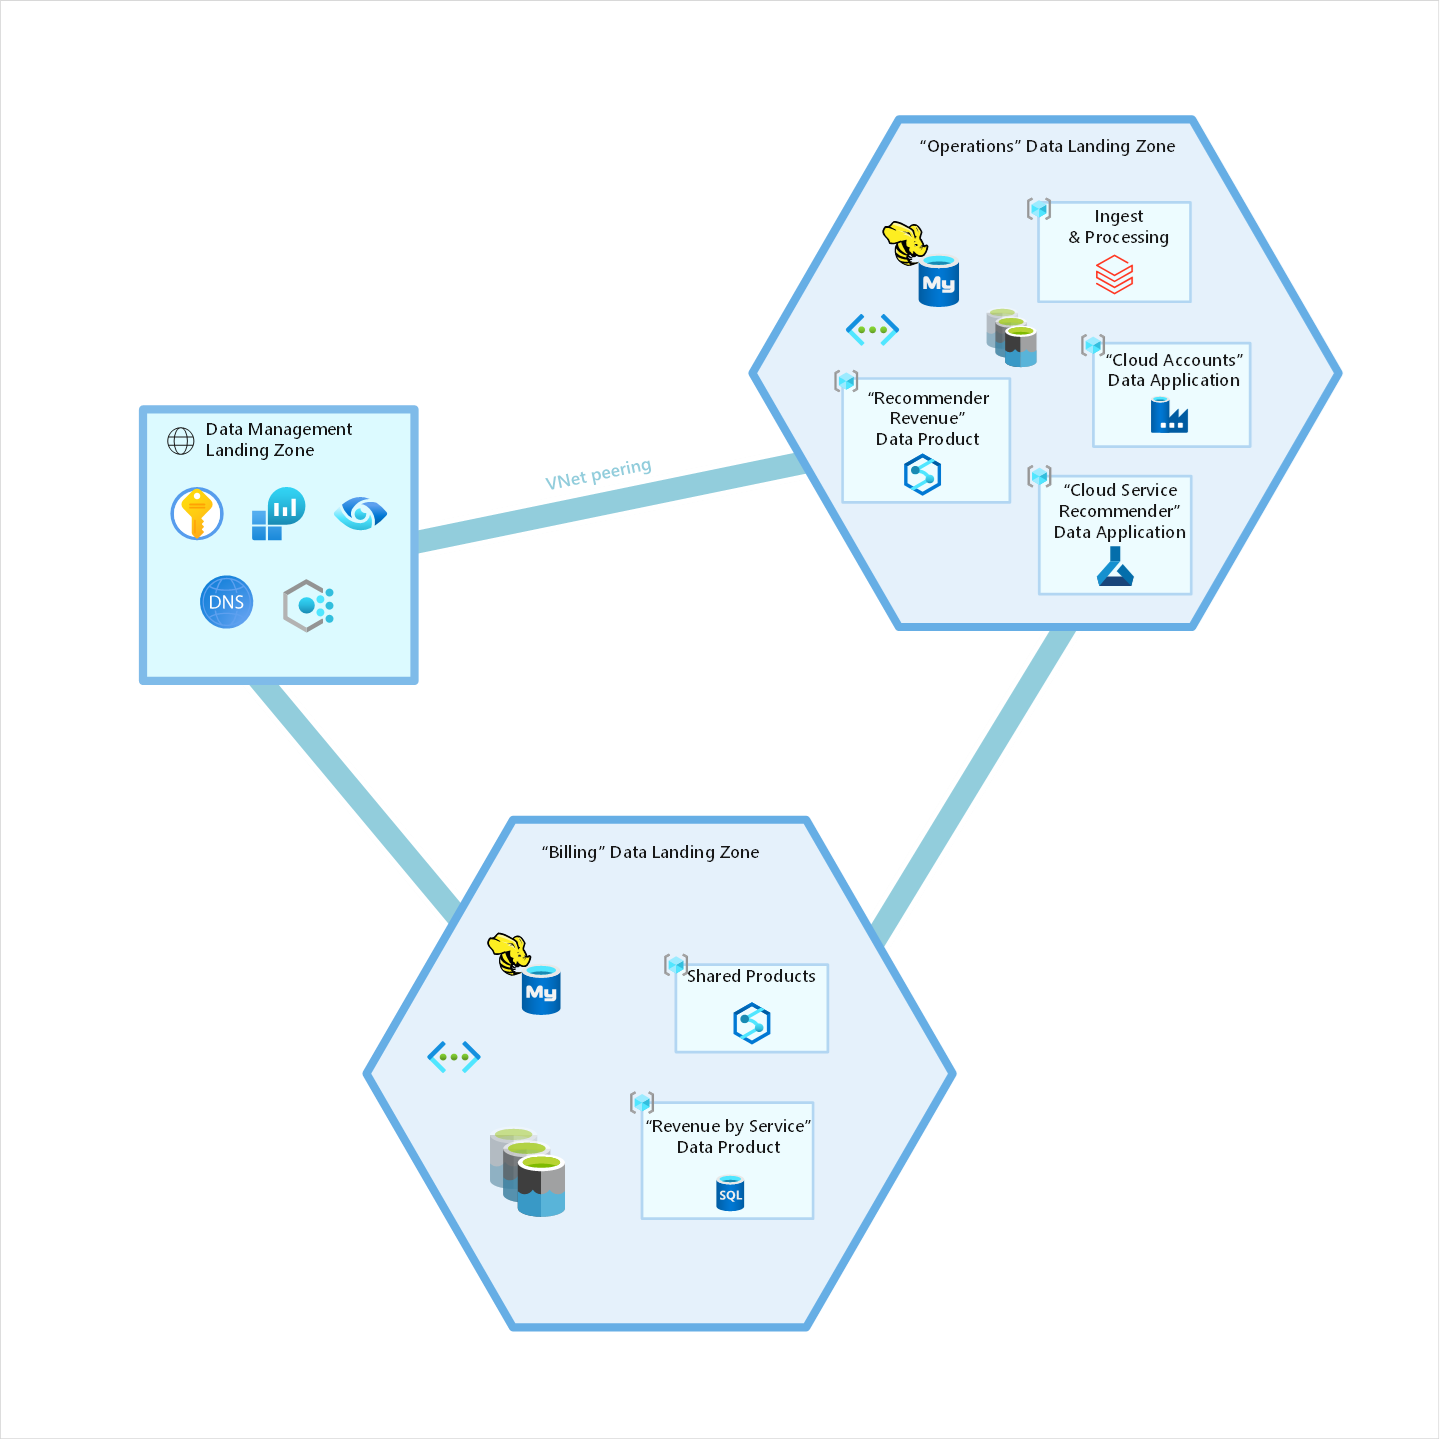
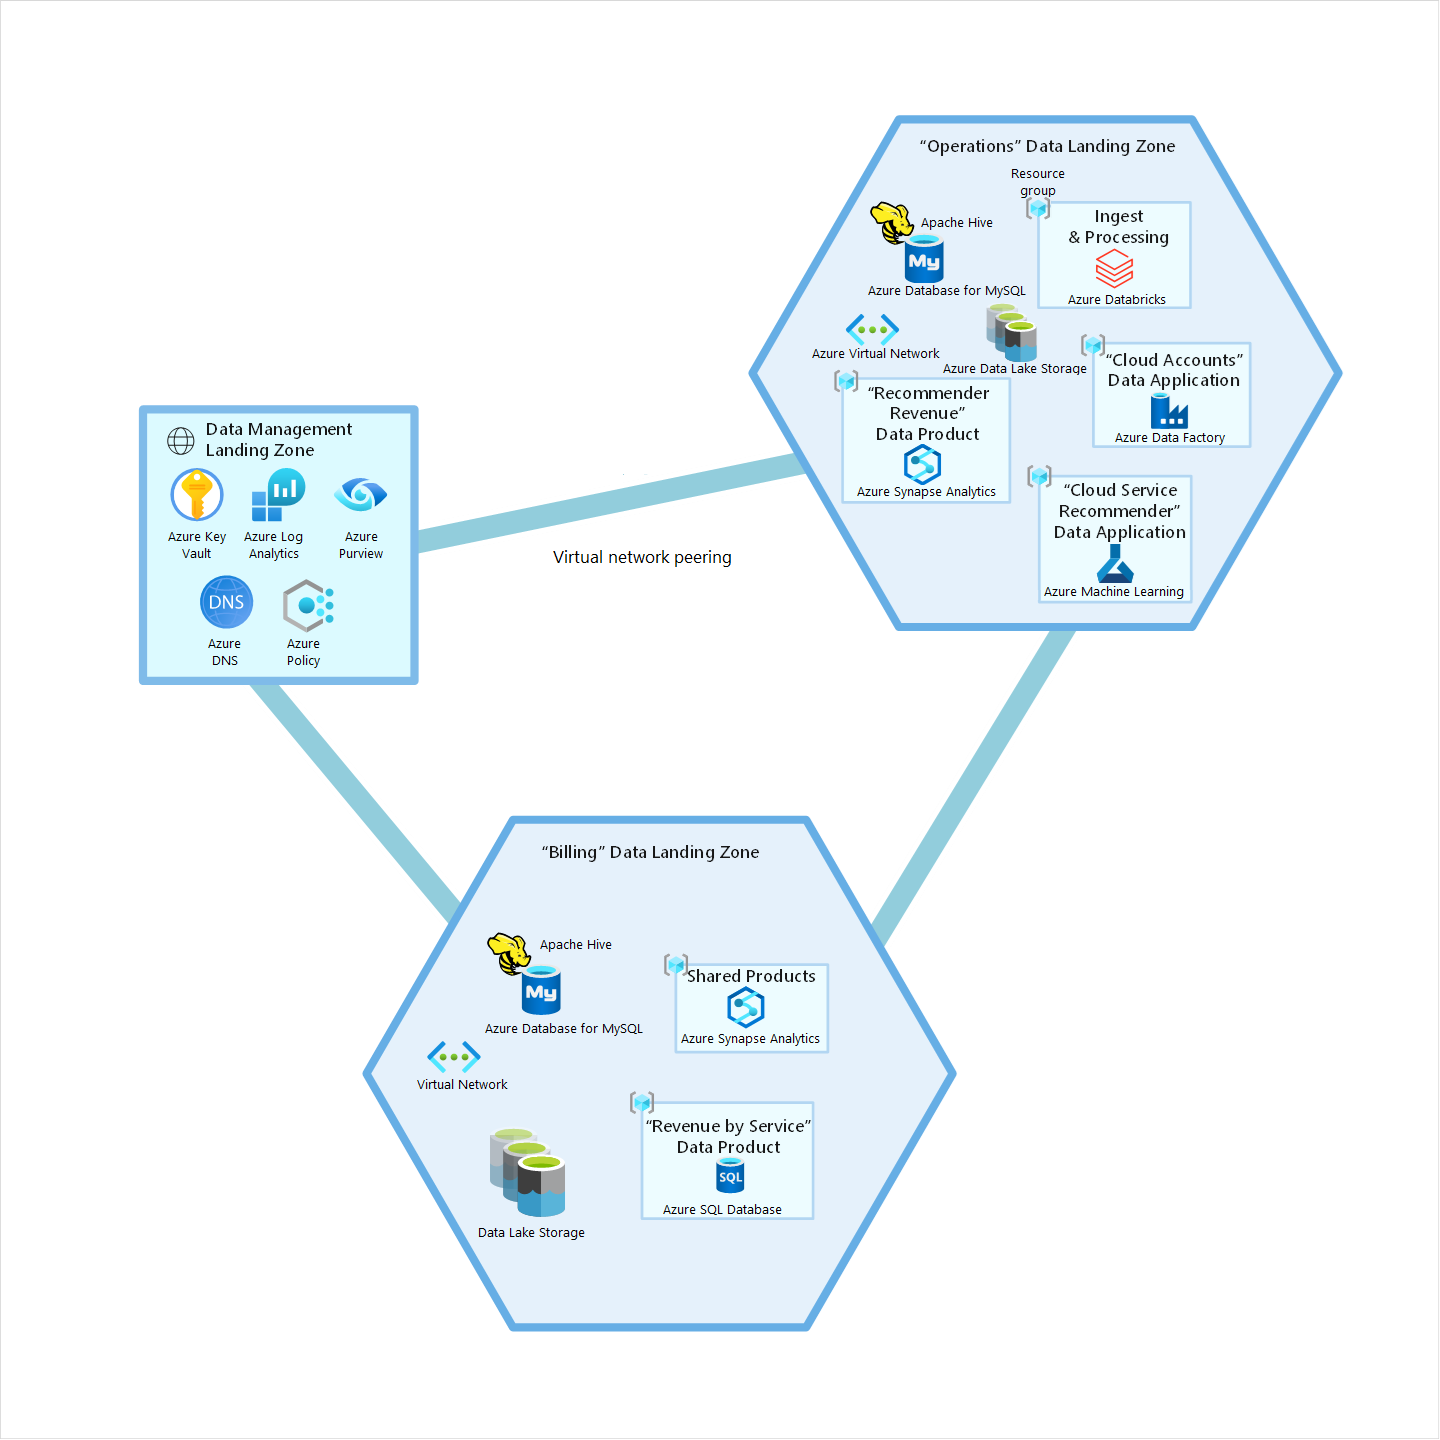
edit

diff --git a/docs/scenarios/cloud-scale-analytics/architectures/reference-architecture-relecloud.md b/docs/scenarios/cloud-scale-analytics/architectures/reference-architecture-relecloud.md
@@ -1,6 +1,6 @@
 ---
-title: Relecloud scenario for cloud-scale analytics in Azure
-description: Learn about the Relecloud scenario for cloud-scale analytics in Azure.
+title: Multiple data zones for cloud-scale analytics in Azure
+description: See how Relecloud, a fictional cloud provider company, implements multiple landing zones for cloud-scale analytics in Azure.
 author: AnalyticJeremy
 ms.author: jepeach
 ms.date: 02/28/2022
@@ -10,80 +10,80 @@ ms.subservice: scenario
 ms.custom: think-tank, e2e-data-management
 ---
 
-# Relecloud scenario for cloud-scale analytics in Azure
+# Multiple data zones for cloud-scale analytics in Azure
 
-This reference architecture can help customers who have already implemented a basic version of cloud-scale analytics and are now ready to host a new business unit that modernizes its analytics operations. It demonstrates a more complex scenario with multiple landing zones, data applications, and data products.
+This reference architecture can help organizations modernize their basic cloud-scale analytics operations by hosting new business units. This more complex scenario has multiple landing zones, data applications, and data products.
 
-## Customer profile
+## Problem statement
 
-Relecloud is a private cloud provider offering shared computing and storage resources to companies around the globe. Data analysts in the operations group use telemetry data from cloud services to understand how their customers are using the platform. A separate team of analysts in the billing group studies invoicing data to gain insights about which services generate the most revenue.
+Relecloud, the fictional organization in this example, is a private cloud provider that offers shared computing and storage resources to global companies. Although Relecloud provides compute resources, they don't want to constrain their platform with their own internal operations. Therefore, they rely on Microsoft Azure for their internal computing needs.
 
-## Current situation
+Data analysts in the operations group use telemetry data from cloud services to understand how their customers use the platform. A separate team of analysts in the billing group studies invoicing data to gain insights about which services generate the most revenue.
 
-Although Relecloud provides compute resources of their own, they don't want to constrain their platform with their own internal operations. Therefore, they rely on Microsoft Azure for their internal computing needs. Last quarter, as the operations team was pursuing new analytics projects, the team modernized its analytics platform by migrating it to Azure. They chose to implement cloud-scale analytics to maximize the potential for scaling the platform and adding new workloads from the organization.
+Last quarter, the operations team modernized its analytics platform by migrating it to Azure. The goal in implementing cloud-scale analytics was to maximize the potential for scaling the platform and adding new organizational workloads.
 
-Today, the billing group has outgrown its current analytics solution. The volume of invoices they must analyze has become too large for their on-premises server. They've decided to follow the lead of the operations group and modernize their platform in Azure.
+Today, the billing group has outgrown its current analytics solution. The volume of invoices to analyze is too large for their on-premises server. The team decides to follow the lead of the operations group and modernize their platform in Azure.
 
-However, analysts in the billing group have different skills than the analysts in the operations group. The billing analysts don't want to be constrained to use the same tools chosen by operations. The billing group is also in a different part of the organization, and they want the flexibility to implement the policies and procedures that meet their needs.
+Analysts in the billing group have different skills than analysts in the operations group. The billing analysts don't want to be constrained to use the same tools as operations. The billing group is in a different part of the organization, and wants the flexibility to implement the policies and procedures that meet their needs.
 
 ## Architectural solution
 
-Relecloud will scale their analytics platform by adding a new landing zone for the billing group. This will provide a virtual workspace for the billing group to implement the analytics solutions that will meet their business needs. By having the landing zone separate from the organization's other resources, the billing group can implement its own access policies and account for the costs of its services.
+Relecloud scales their analytics platform by adding a new landing zone for the billing group. This landing zone provides a virtual workspace for the billing group to implement the analytics solutions that meet their business needs. By having a landing zone separate from the organization's other resources, the billing group can implement its own access policies and account for the costs of its services.
 
-### Data management landing zone
+The following diagram doesn't represent all Azure services. The diagram is simplified to highlight the core concepts of organizing resources within the architecture.
 
-A key concept for every cloud-scale analytics implementation is having one data management landing zone. This subscription contains resources that will be shared across all landing zones. This includes shared networking components like a firewall or private DNS zones. It also includes resources for data and cloud governance like Azure Policy and Azure Purview.
+:::image type="content" source="../images/relecloud.png" alt-text="Diagram of a multiple landing zone architecture for cloud-scale analytics." lightbox="../images/relecloud.png":::
 
-Relecloud created a data management landing zone when the solution was deployed for the operations group. When the billing group joins the platform, they'll use the same data management landing zone. This will allow them to share common resources with the operations group.
+## Data management landing zone
 
-### Operations data landing zone
+A key concept for a cloud-scale analytics implementation is having a data management landing zone. This subscription contains resources that are shared across all landing zones, including shared networking components like a firewall or private DNS zones. The data management landing zone also includes resources for data and cloud governance like Azure Policy and Azure Purview.
 
-The operations group has been building solutions in its data landing zone for a few months.
+Relecloud created a data management landing zone when they deployed the solution for the operations group. When the billing group joins the platform, they use the same data management landing zone to share common resources with the operations group.
 
-#### Operations data applications
+## Operations data landing zone
 
-The team has built a [source-aligned data application](../../cloud-scale-analytics/architectures/data-application-source-aligned.md) that uses Apache Spark jobs running in Azure Databricks to ingest service telemetry data and land it in an Azure Data Lake Storage account. This process copies the data as-is from the source system but doesn't transform it. By storing a copy in the analytics platform, analysts can work with the data without overloading the source system. Instead of creating a dedicated deployment for this data application, the operations team used the Databricks workspace in the shared **Ingest & Processing** resource group.
+The operations group has the following solutions in its data landing zone.
 
-Relecloud customers can create cloud accounts to manage resources and billing in their private clouds. Each customer can have multiple accounts. The analytics team built a data application to bring in the cloud account data. Because the volume and frequency of data is much lower than the telemetry data, they don't need to use Spark jobs to handle this data. Instead, they created pipelines in Azure Data Factory to copy the data.
+### Operations data applications
 
-#### Operations data products
+The team has built a [source-aligned data application](../../cloud-scale-analytics/architectures/data-application-source-aligned.md) that uses Apache Spark jobs running in Azure Databricks to ingest service telemetry data and land it in an Azure Data Lake Storage account. This process copies the data as-is from the source system, but doesn't transform it. By storing a copy in the analytics platform, analysts can work with the data without overloading the source system. Instead of creating a dedicated deployment for this data application, the operations team used the Databricks workspace in the shared **Ingest & Processing** resource group.
 
-Relecloud analysts obtain value from the data in source-aligned data applications by creating new data applications that are consumer-aligned. One of these consumer-aligned data applications is a **Cloud service recommender** model. Relecloud data scientists used Azure Machine Learning to build a model that looks at the services consumed in a cloud account and suggests related services that could be useful. This model is deployed to an Azure Kubernetes Service (AKS) cluster running in the landing zone and managed by Azure Machine Learning. Applications running outside of cloud-scale analytics can call the AKS endpoint to get recommendations.
+Relecloud customers can create cloud accounts to manage resources and billing in their private clouds. Each customer can have multiple accounts. The analytics team built a data application to import the cloud account data. Because the volume and frequency of data is much lower than for telemetry data, the team doesn't need to use Spark jobs. Instead, they created Azure Data Factory pipelines to copy the data.
 
-After the billing team creates their landing zone, the operations team will be able to create a new data product that the operations management team has requested. They want to know how much revenue is generated by the **Cloud service recommender** data application. The new **Recommender revenue** data product will use Azure Synapse Analytics to combine data from **Cloud service recommender** and **Revenue by service** into a new data product. Business analysts can connect to Azure Synapse with Microsoft Power BI to find and report insights from this new data product.
+### Operations data products
 
-### Billing data landing zone
+Relecloud analysts get value from the data in the source-aligned data applications by creating new, consumer-aligned data applications. One of these consumer-aligned data applications is a **Cloud service recommender** model. Relecloud data scientists used Azure Machine Learning to build a model that looks at the services a cloud account consumes, and suggests related services that could be useful. The team deploys this model to an Azure Kubernetes Service (AKS) cluster running in the landing zone and managed by Azure Machine Learning. Applications that run outside of cloud-scale analytics can call the AKS endpoint to get recommendations.
 
-The billing group has been using an on-premises system to power its analytics. However, as the volume of data has grown and the business' reliance on their work has increased, their current system hasn't been able to keep pace. The group has decided to modernize their platform by moving to the cloud.
+After the billing team creates their landing zone, the operations team creates a new data product that the operations management team requests. The management team wants to know how much revenue the **Cloud service recommender** data application generates. The new **Recommender revenue** data product uses Azure Synapse Analytics to combine data from **Cloud service recommender** and **Revenue by service** into a new data product. Business analysts can connect to Azure Synapse with Microsoft Power BI to find and report insights from this new data product.
 
-As discussed above, the billing group won't share a landing zone with the operations group. Instead, they'll be given their own landing zone in which they'll have the freedom to build the platform that best suits their needs.
+## Billing data landing zone
 
-The new landing zone will be connected to the data management landing zone and all other data landing zones with virtual network peering. This will enable data to be shared securely through the Azure internal network.
+The billing group was using an on-premises system to power its analytics, but as the volume of data grew and reliance on their work increased, the system couldn't keep pace. The group modernizes their platform by moving to the cloud.
 
-#### Billing data applications
+The billing group doesn't share a landing zone with the operations group, but gets their own landing zone where they have the freedom to build the platform that best suits their needs.
 
-To land data from existing systems into the analytics platform, the billing group will build two data applications. The first will ingest the customer data. This includes the full list of customers and all related data, including customer addresses, locations, and salesperson assignments. The second application will import the company's invoice history, which includes all billing charges to customers and the related payment data.
+The new landing zone is connected to the data management landing zone and all other data landing zones with virtual network peering. This mechanism enables data to be shared securely through the Azure internal network.
 
-Both of these applications will be powered by pipelines in a shared Azure Synapse workspace. Each application will have a dedicated compute pool to facilitate cost accounting and security boundaries. Since the applications can be fully implemented with shared resources, the billing group doesn't have to create a deployment for these data applications.
+### Billing data applications
 
-#### Billing data products
+To land data from existing systems into the analytics platform, the billing group builds two data applications. The first application ingests the customer data, including the full list of customers and all related data, such as customer addresses, locations, and salesperson assignments. The second application imports the company's invoice history, which includes all billing charges to customers and the related payment data.
 
-The billing analysts will create a new data product called **Revenue by service** that will analyze how much each cloud service generates for Relecloud. This product will rely on the data in the **Invoices** ingestion. It will also connect across to the operations landing zone and read the service usage data.
+Both of these applications are powered by pipelines in the shared Azure Synapse workspace. Each application has a dedicated compute pool to facilitate cost accounting and security boundaries. Since the applications can be fully implemented with shared resources, the billing group doesn't have to create a deployment for these data applications.
 
-Like with data applications, the data product will also rely on a shared Azure Synapse workspace.
+#### Billing data product
 
-:::image type="content" source="../images/relecloud.png" alt-text="Diagram of architecture." lightbox="../images/relecloud.png":::
+The billing analysts create a new data product called **Revenue by service** that analyzes how much revenue each cloud service generates for Relecloud. This product relies on the data in the **Invoices** ingestion. The product also connects to the operations landing zone and reads the service usage data.
 
-*Figure 1: Diagram of architecture. Not all Azure services are represented in the diagram. It has been simplified to highlight the core concepts of how resources are organized within the architecture.*
+Like with the data applications, the data product also relies on the shared Azure Synapse workspace.
 
-### Deployment templates
+## Deployment templates
 
-To deploy the architectures, use the data management landing zone and the data landing zone reference implementation templates in the following GitHub repositories:
+To deploy the architectures, use the following data management landing zone and data landing zone reference implementation templates:
 
 - [Data management landing zone template](https://github.com/Azure/data-management-zone)
 - [Data landing zone template](https://github.com/Azure/data-landing-zone)
 
-Use the following templates to deploy other data applications and data products in the Relecloud billing and operations data landing zones:
+Use the following templates to deploy the other data applications and data products in the Relecloud billing and operations data landing zones:
 
 |Name  |Data landing zone  |Type  |Template  |
 |---------|---------|---------|---------|
@@ -93,13 +93,13 @@ Use the following templates to deploy other data applications and data products 
 |Revenue by service     |Billing         |Data product         |[Data product batch template](https://github.com/Azure/data-product-batch)         |
 
 > [!IMPORTANT]
-> Not everything in the reference implementation templates above will need to be deployed to meet the needs of Relecloud. Some level of customization will be required for the templates. Services that aren't needed should be removed from the templates prior to deployment.
+> Relecloud doesn't have to deploy everything in the preceding reference implementation templates to meet their needs. The templates require some level of customization. Remove services you don't need from the templates before deployment.
 
 ## Next steps
 
-Continue to the [Lamna Healthcare scenario for cloud-scale analytics in Azure](./reference-architecture-lamna.md).
+Continue to the [Lamna Healthcare scenario for secure cloud-scale analytics in Azure](./reference-architecture-lamna.md).
 
-Learn more in:
+For more information, see the following articles:
 
 - [Azure Machine Learning as a data product for cloud-scale analytics](../best-practices/azure-machine-learning.md)
 - [Use Azure Synapse Analytics with cloud-scale analytics](../best-practices/azure-synapse-analytics-implementation.md)
